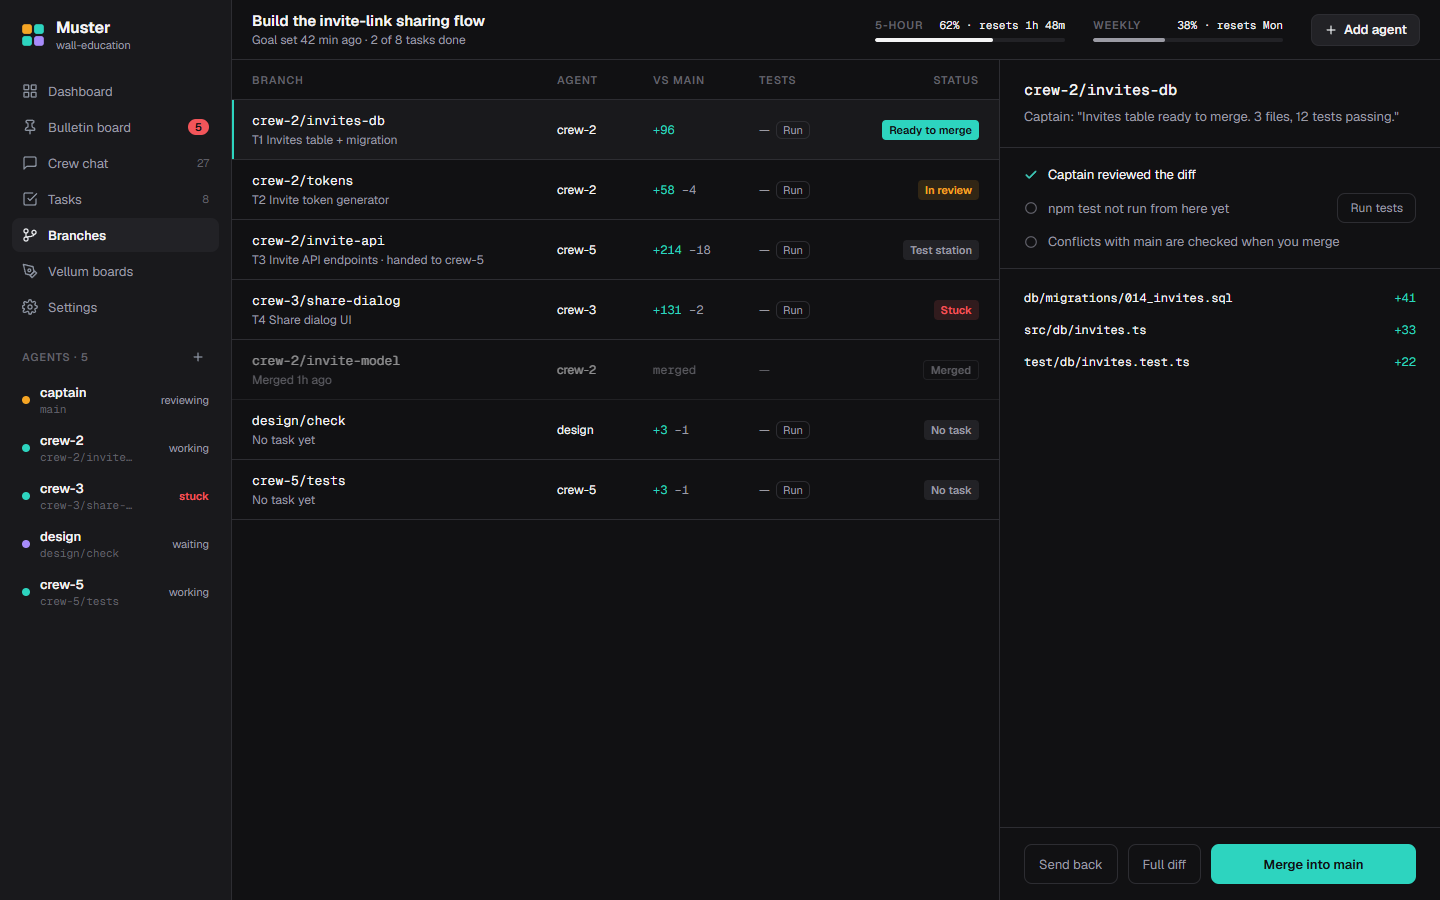
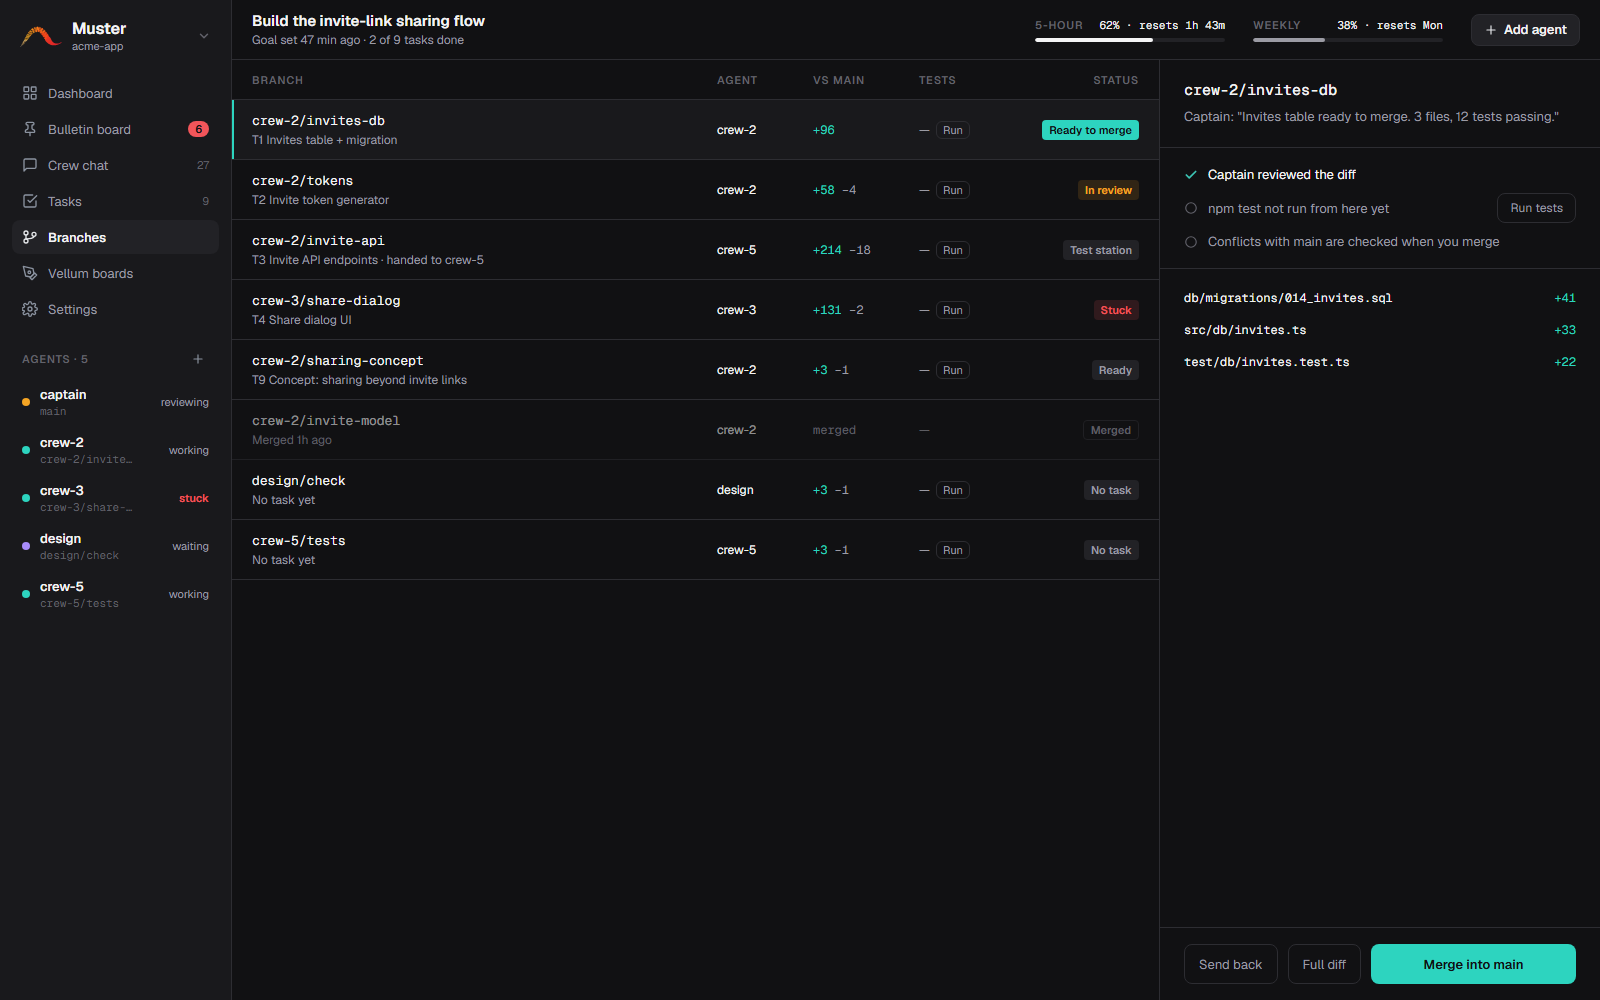
T16: refresh README, new screenshots of every screen, scripts/screenshots.mjs, demo data in mock server

diff --git a/README.md b/README.md
@@ -6,6 +6,14 @@ Runs natively on Windows (no WSL, no tmux). macOS and Linux work too.
 
 ![Dashboard](docs/screenshots/dashboard.png)
 
+## Requirements
+
+- **Windows** 10/11 (macOS and Linux work too, without the desktop shortcuts)
+- **Node.js 22 or newer**
+- **Claude Code CLI** (`claude`), logged in
+- **git**, in a repo with at least one commit
+- **Vellum** (optional): the design tool the design crew checks UI work against
+
 ## Install
 
 ```powershell
@@ -16,50 +24,124 @@ npm run build
 npm link          # puts `muster` on your PATH
 ```
 
-Needs Node 22+, git, and Claude Code (`claude`) logged in.
-
 ### Desktop app (Windows)
 
 ```powershell
 npm run shortcuts   # adds Muster to the Desktop and Start menu
 ```
 
-Double-click **Muster**: pick a project folder (or a recent one), and the dashboard opens in its own window with the Captain running. **File** has Switch project, Stop the crew, and what closing the window does (ask / stop the crew / keep it running in the background). The app drives the same CLI, so `muster status` etc. still work in a terminal alongside it. The shortcut rebuilds Muster first if its sources changed.
+Double-click **Muster**: pick a project folder (or a recent one), and the dashboard opens in its own window with the Captain running. Click **Muster / project name** at the top of the sidebar to switch to another project, open a new one, or stop this project's crew. The app drives the same CLI, so `muster status` and friends still work in a terminal alongside it. The shortcut rebuilds Muster first if its sources changed.
 
-## Use
+## Quick start
 
-From inside any git repo with at least one commit:
+From inside your project's git repo:
 
 ```powershell
-muster up                      # starts the orchestrator + the Captain, opens the dashboard
+muster up                                       # starts the orchestrator + the Captain, opens the dashboard
 muster ask "Build the invite-link sharing flow"
-muster status                  # who is doing what
-muster board --needs-you       # escalations and branches ready for you
-muster merge crew-2            # merge a branch the Captain flagged ready
-muster down --clean            # stop everything, remove merged worktrees
+muster status                                   # who is doing what
+muster board --needs-you                        # escalations and branches ready for you
+muster merge crew-2                             # merge a branch the Captain flagged ready
+muster down --clean                             # stop everything, remove merged worktrees
 ```
+
+Give the Captain a goal and it posts tasks, starts crew and reviews their branches. Nothing reaches `main` until you merge it.
+
+## Tour
+
+The dashboard's left-hand navigation, top to bottom.
+
+### Dashboard
+
+Every agent's live terminal in one grid: the Captain, the crew and the design crew, four tiles per page. Each tile shows the agent's role, branch and status (working, waiting, stuck) and has a prompt line to message that agent directly. The top bar shows the goal, the 5-hour and weekly usage windows, and **Add agent**.
+
+### Bulletin board
+
+Where agents ask questions and report progress: stuck, question, waiting, review, approval and escalation notes. Crew answer each other first; only the Captain's escalations, ready-to-merge branches and approval requests land under **Needs you**. Select a note to read its thread, reply as you, or clear it. An **Approval** note, like the one selected below, comes with **Approve** and **Send back**.
+
+![Bulletin board with an approval note selected](docs/screenshots/board.png)
+
+### Crew chat
+
+The conversation between you, the Captain and the crew, with events (claims, handoffs, merges) mixed in. Message one agent or everyone.
+
+![Crew chat](docs/screenshots/chat.png)
+
+### Tasks
+
+The task board as columns: blocked, ready, in progress, **Awaiting you**, Captain review and ready to merge. Each card shows its line of stations and progress. Tasks waiting on your approval have **Approve** and **Send back** on the card; finished ones have **View diff** and **Merge**. **New task** posts one yourself, and **Dependency graph** shows what waits on what.
+
+![Tasks, with one task awaiting you](docs/screenshots/tasks.png)
+
+### Branches
+
+Every agent branch against `main`: the diff stat, the diff itself, and a button to run the tests on it before you merge.
+
+![Branches](docs/screenshots/branches.png)
+
+### Vellum boards
+
+Connects the **design crew** to your Vellum designs, so UI work is checked against your design framework.
+
+- **Connection card:** shows whether the Vellum MCP is connected, the command it runs, and whether the design crew may edit designs ("Edits when asked", "Design crew can edit" or "Read only"). **Test connection** re-checks it right away.
+- **Design framework file:** lists the files in Vellum. Click one to make it the framework; it gets a check mark, and the design crew learns your tokens, type scale and components from it. Here Muster is the framework file (the other files are blurred in the screenshot).
+- **Design crew:** the agent with the design role. Click it to open its terminal, or add one if there is none.
+- **Design checks:** the design crew's reports on each UI task, newest first. **PASS** means the branch matches the framework. **DRIFT** names the task, the branch and the `file:line` that drifted, for example `src/ui/ShareDialog.tsx:42 — hard-coded #2563EB`. Click a check to open its note on the board.
+
+![Vellum boards](docs/screenshots/vellum.png)
+
+### Settings
+
+Your name, the Captain and crew models, how many crew run at once, the permission mode, the Vellum MCP command and framework file, and the usage guard (pause new work at 80% of the 5-hour window, warn at 75% of the weekly one). It is saved to `.muster/config.json`, and the CLI reads the same file. The **Factory line and review** panel holds the default stations and the **Edit line** button.
+
+![Settings](docs/screenshots/settings.png)
+
+**Factory line → Edit line** opens the station editor: pick a line preset, reorder its stations, add or remove them, and set each station's role (Crew, Vellum design crew, Captain or You) and its Markdown guideline.
+
+![Edit line on the Feature line](docs/screenshots/edit-line.png)
+
+## Factory lines
+
+A task moves through the **stations** of a line. Each station is worked by a role, then the Captain reviews, then you merge. New tasks use the default line (Feature) unless the Captain or you pick another.
+
+| Line | Stations | Use it for |
+|---|---|---|
+| `new-app` | discover → concept → design → plan → approval → review | A new app or a big feature |
+| `feature` (default) | plan → build → test → review | A normal feature |
+| `ui` | design → build → design-check → review | A UI change checked against Vellum |
+| `bugfix` | reproduce → fix → test → review | A bug |
+
+The **approval** station is worked by you: the task pauses and shows up as an approval note on the board and under **Awaiting you** on Tasks until you approve it or send it back.
+
+Every station has a **guideline**: a Markdown file the agent reads when it works the station. They live in `.muster/stations/<name>.md` (per machine, never committed) with a `role:` header. Muster seeds a starter guideline for each built-in station, and you edit them in **Edit line** or by hand. Review guidelines add to the Captain's checks; they can't relax the fixed rules.
+
+## CLI reference
 
 | Command | What it does |
 |---|---|
 | `muster init` | Sets up `.muster/` (config, state, logs) and ignores it via `.git/info/exclude` |
-| `muster up [--no-ui]` | Starts the orchestrator and the Captain in the main checkout |
+| `muster up [--port <n>] [--no-ui]` | Starts the orchestrator and the Captain in the main checkout |
+| `muster down [--clean]` | Stops every agent and the orchestrator; `--clean` also removes merged worktrees |
 | `muster add [name] [--role crew\|design] [--task T3]` | Adds an agent in its own worktree + branch |
 | `muster role <agent> captain\|crew\|design` | Changes an agent's role (a new Captain demotes the old one) |
 | `muster ask "<goal>"` | Sends a goal to the Captain |
 | `muster status` / `tasks` / `usage` | Agents, the task board, the 5-hour and weekly usage windows |
-| `muster board` / `reply <note> "<text>"` | The bulletin board; answer a note as you |
-| `muster chat [--follow]` / `say <agent\|everyone> "<text>"` | The crew chat log; message agents |
+| `muster board [--all] [--needs-you]` | The bulletin board |
+| `muster reply <note> "<text>" [--close]` | Answers a note as you |
+| `muster cancel <task> [reason]` | Drops a task that is no longer needed |
+| `muster chat [-f] [--agent <id>] [-n <n>]` | The crew chat log |
+| `muster say <agent\|everyone> "<text>"` | Messages an agent as you |
 | `muster attach <agent>` | That agent's live terminal (Ctrl+] to detach) |
-| `muster diff <agent>` / `merge <agent>` | Review and merge a finished branch |
-| `muster stop <agent>` / `start <agent>` / `down [--clean]` | Stop or restart agents, or everything |
+| `muster diff <agent> [--stat]` / `merge <agent> [--force]` | Reviews and merges a finished branch |
+| `muster stop <agent>` / `start <agent>` | Stops or restarts one agent (its worktree is kept) |
 | `muster ui` | Opens the dashboard |
 
 ## How it works
 
 - **Orchestrator:** a small local server (`127.0.0.1`, token-protected) per repo. It runs every agent's `claude` in a pseudo-terminal, keeps the task board, bulletin board, crew chat and inboxes in `.muster/state.json`, and serves the dashboard.
-- **Roles:** the Captain works in the main checkout but never writes code or merges. Crew work only inside `.muster/worktrees/<agent>` on their own branch; a PreToolUse hook blocks edits outside it and git commands that touch the base branch. The **Vellum design crew** also gets the Vellum MCP to check UI work against the design framework (read-only).
-- **Factory line:** tasks have dependencies and stations (for example `build → test → design → review`; the default is `build → review`). Agents claim ready tasks, hand branches on with a note, and the Captain reviews (`get_diff`, `run_tests`) before flagging a branch **ready for merge**.
-- **Crew answer each other first:** stuck and question notes go to the crew and the Captain; only the Captain's escalations and ready branches reach you ("Needs you", plus a Windows notification).
+- **Roles:** the Captain works in the main checkout but never writes code or merges. Crew work only inside `.muster/worktrees/<agent>` on their own branch; a PreToolUse hook blocks edits outside it and git commands that touch the base branch. The **Vellum design crew** also gets the Vellum MCP to check UI work against the design framework, and edits designs only as far as Settings allows.
+- **Factory line:** tasks have dependencies and stations (see [Factory lines](#factory-lines)). Agents claim ready tasks, hand branches on with a note, and the Captain reviews (`get_diff`, `run_tests`) before flagging a branch **ready for merge**.
+- **Crew answer each other first:** stuck and question notes go to the crew and the Captain; only the Captain's escalations, approvals and ready branches reach you ("Needs you", plus a Windows notification).
 - **Usage guard:** every agent's status line reports the 5-hour and weekly rate limits. New work pauses at 80% of the 5-hour window; you're warned at 75% of the weekly one. The Captain runs on Opus, crew on Sonnet, 3 crew at once by default (Settings or `.muster/config.json`).
 - **Permissions:** agents run in Claude Code's `auto` permission mode so they can work unattended; the worktree guard hook applies regardless.
 
@@ -68,10 +150,13 @@ See [`docs/SPEC.md`](docs/SPEC.md) for the product spec and [`docs/ARCHITECTURE.
 ## Develop
 
 ```powershell
-npm test                          # vitest, 140+ tests
+npm test                          # vitest
 npm run build                     # tsc → dist/, vite → dist/ui/
 node ui/dev/mock-server.mjs       # dashboard against a mock orchestrator (token: dev-token)
+npm run screenshots               # rebuilds the UI and retakes docs/screenshots/*.png
 ```
+
+`npm run screenshots` serves the built dashboard from the mock orchestrator (demo data) and captures each screen at 1600×1000 with Electron, headlessly. It blurs the three non-framework Vellum files before the Vellum shot. The demo data is in `ui/dev/mock-server.mjs`.
 
 ## License
 
